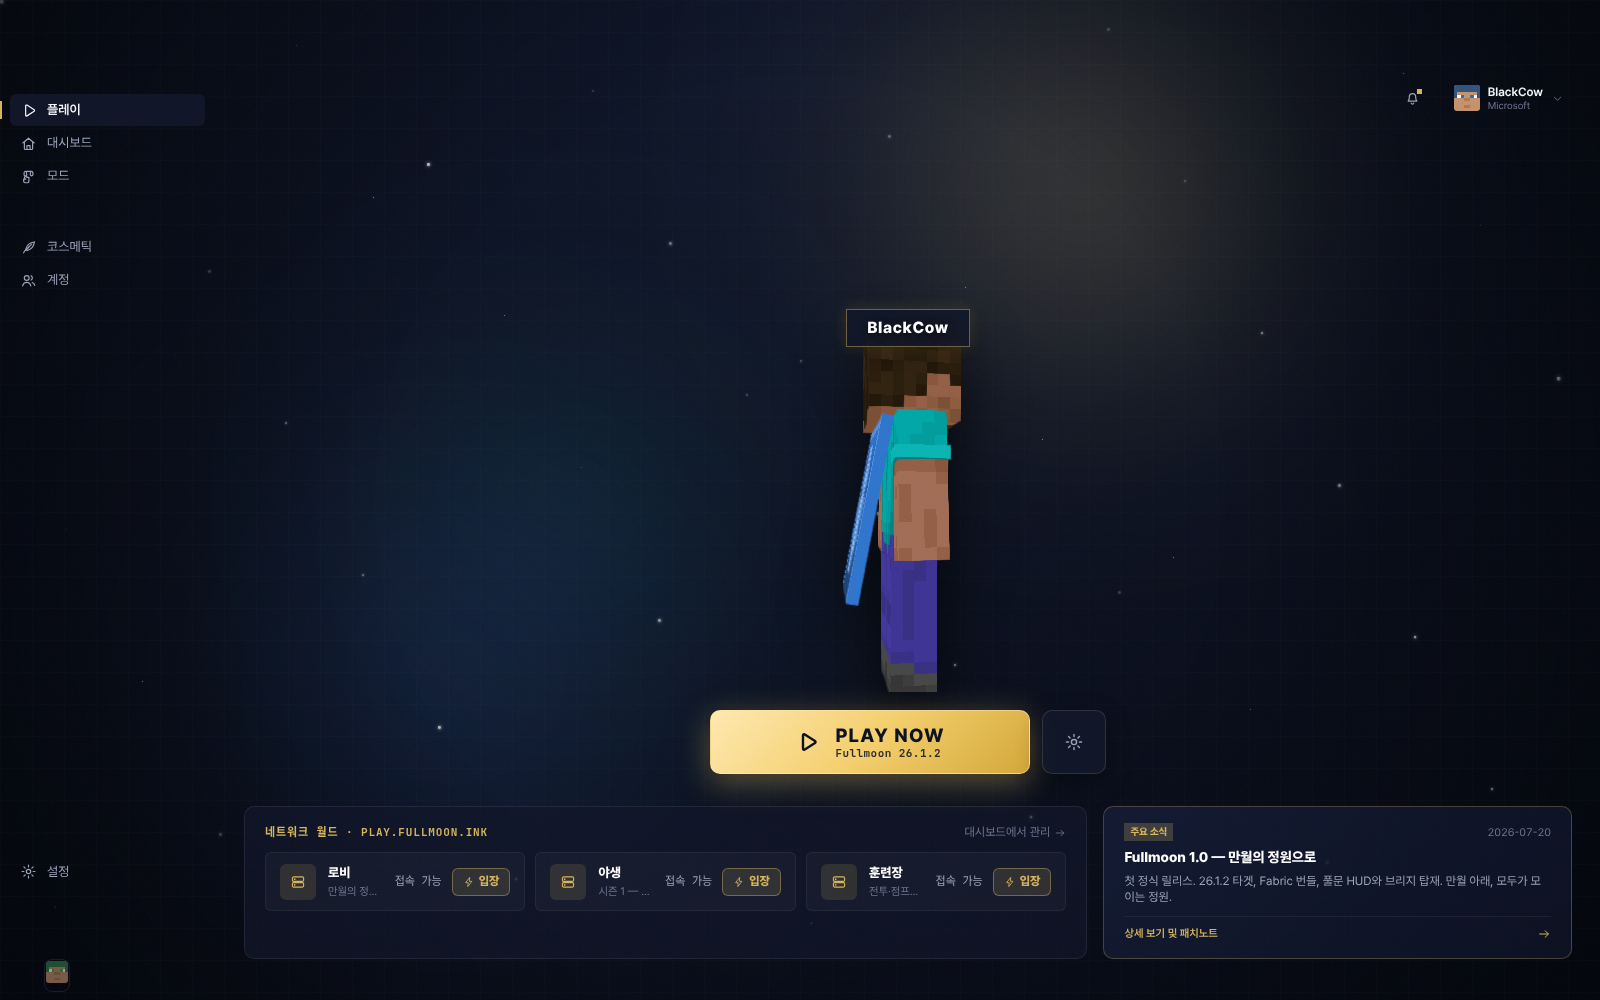
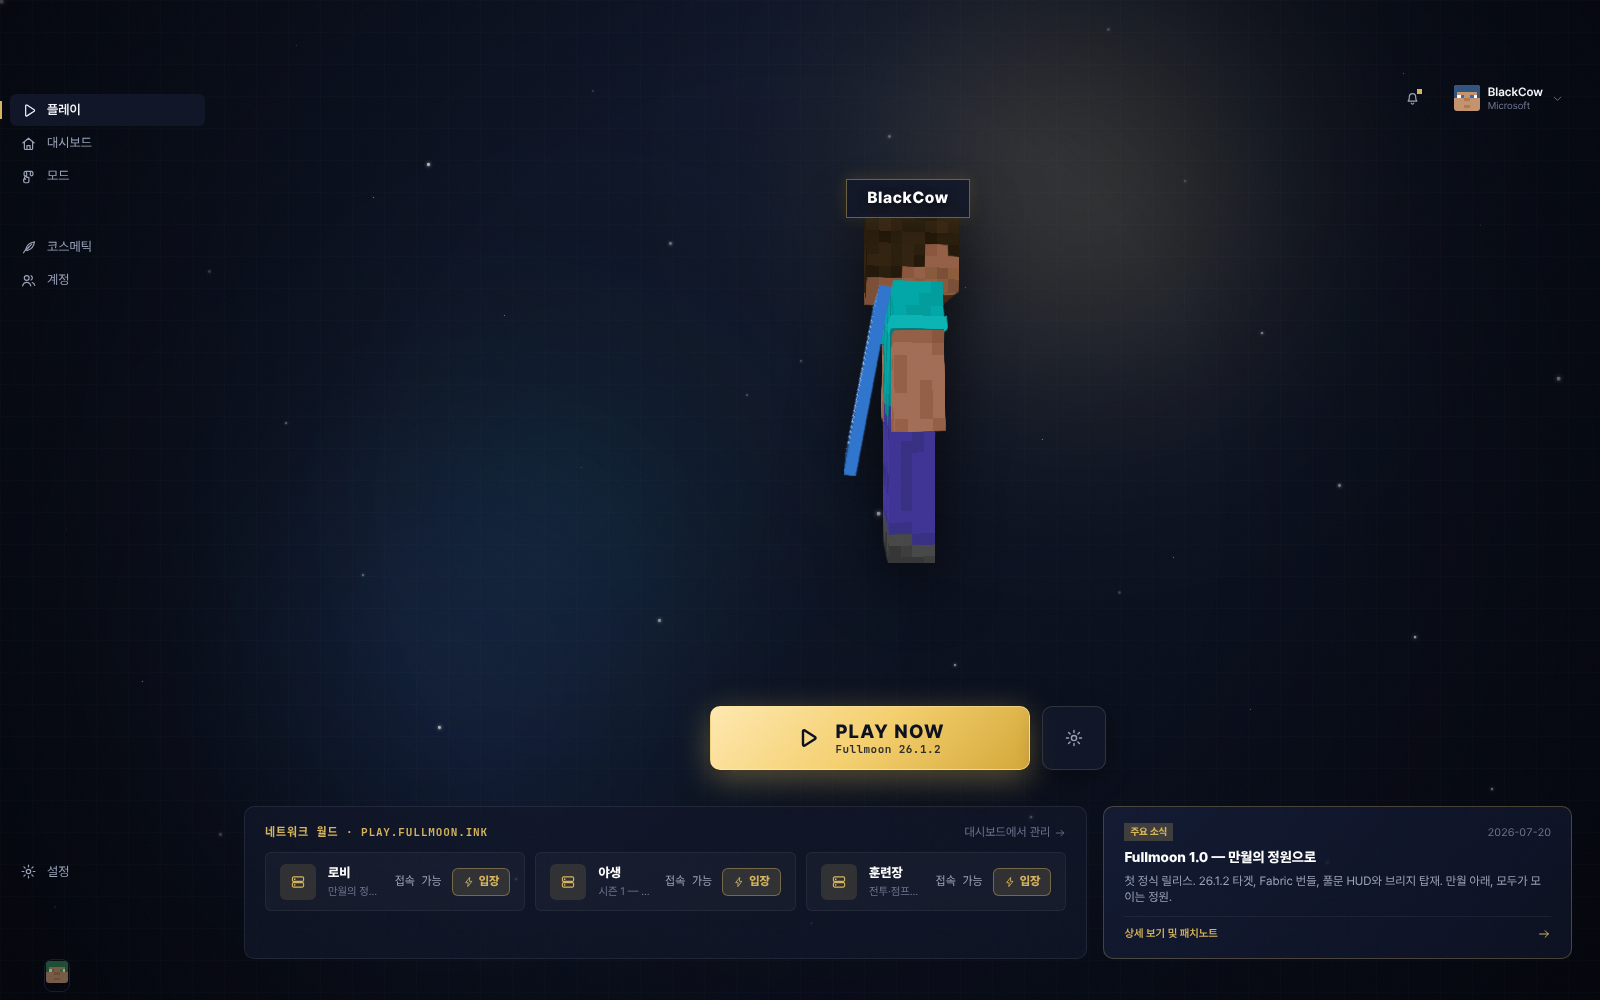
style(i3): maintain 3D character in upper hero area while anchoring play button down independently

Changed region(s): [[0.4375, 0.186, 0.6562, 0.775]]

diff --git a/launcher/src/screens/Play.tsx b/launcher/src/screens/Play.tsx
@@ -37,8 +37,8 @@ export function PlayScreen() {
     <div className="play-screen-wrapper stagger">
       {/* ── 1. Focus Hero Stage (Play Now) ── */}
       <div className="play-screen">
-        {/* Center Hero Avatar & Big Launchpad Stage */}
-        <div className="play-center-stage">
+        {/* Upper Character Stage */}
+        <div className="play-character-stage">
           {/* Floating Player Nametag */}
           <div className="play-player-nametag">
             <span className="player-name-text">{activeAccount?.username ?? "BlackCow"}</span>
@@ -54,34 +54,34 @@ export function PlayScreen() {
               zoom={1.08}
             />
           </div>
+        </div>
 
-          {/* Big Central Launch Action Group */}
-          <div className="play-action-cluster">
-            <button
-              className="massive-play-button"
-              disabled={!installedAny}
-              onClick={() => quickPlay()}
-            >
-              <div className="play-btn-glow" />
-              <div className="play-btn-content">
-                <Icon name="play" size={24} strokeWidth={2.4} />
-                <div className="play-btn-text">
-                  <span className="main-word">PLAY NOW</span>
-                  <span className="sub-instance-tag">
-                    {selectedInstance ? selectedInstance.name : `${BRAND.name} 26.1.2`}
-                  </span>
-                </div>
+        {/* Lower Launch Action Group */}
+        <div className="play-action-cluster">
+          <button
+            className="massive-play-button"
+            disabled={!installedAny}
+            onClick={() => quickPlay()}
+          >
+            <div className="play-btn-glow" />
+            <div className="play-btn-content">
+              <Icon name="play" size={24} strokeWidth={2.4} />
+              <div className="play-btn-text">
+                <span className="main-word">PLAY NOW</span>
+                <span className="sub-instance-tag">
+                  {selectedInstance ? selectedInstance.name : `${BRAND.name} 26.1.2`}
+                </span>
               </div>
-            </button>
+            </div>
+          </button>
 
-            <button
-              className="play-quick-config-btn"
-              title="설정 및 인스턴스 옵션"
-              onClick={() => setScreen("settings")}
-            >
-              <Icon name="gear" size={20} />
-            </button>
-          </div>
+          <button
+            className="play-quick-config-btn"
+            title="설정 및 인스턴스 옵션"
+            onClick={() => setScreen("settings")}
+          >
+            <Icon name="gear" size={20} />
+          </button>
         </div>
 
         {/* Bottom Deck: Quick Servers & Featured News */}

diff --git a/launcher/src/styles/screens.css b/launcher/src/styles/screens.css
@@ -2494,14 +2494,14 @@
   width: 100%;
 }
 
-.play-center-stage {
+.play-character-stage {
   display: flex;
   flex-direction: column;
   align-items: center;
   justify-content: center;
   position: relative;
-  margin-top: auto;
-  margin-bottom: 4px;
+  margin-top: 10px;
+  margin-bottom: auto;
 }
 
 .play-player-nametag {
@@ -2539,7 +2539,8 @@
   align-items: center;
   justify-content: center;
   gap: 12px;
-  margin-top: 18px;
+  margin-top: auto;
+  margin-bottom: 8px;
   z-index: 3;
 }
 
